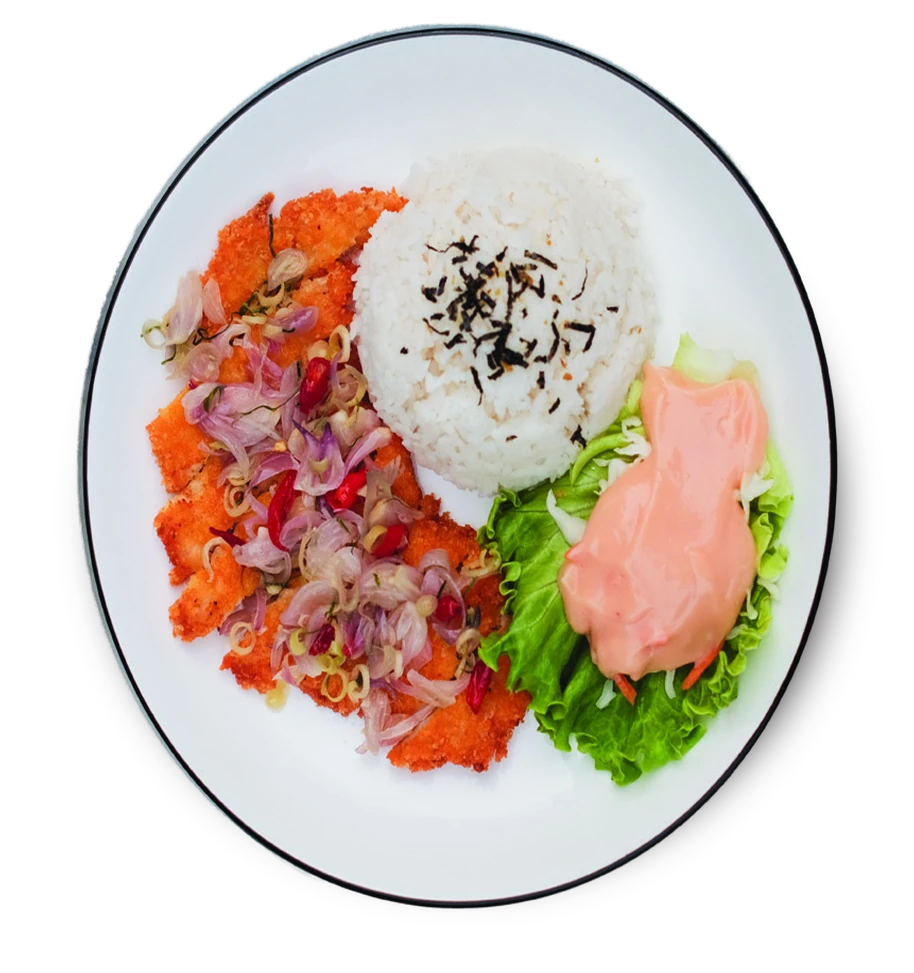
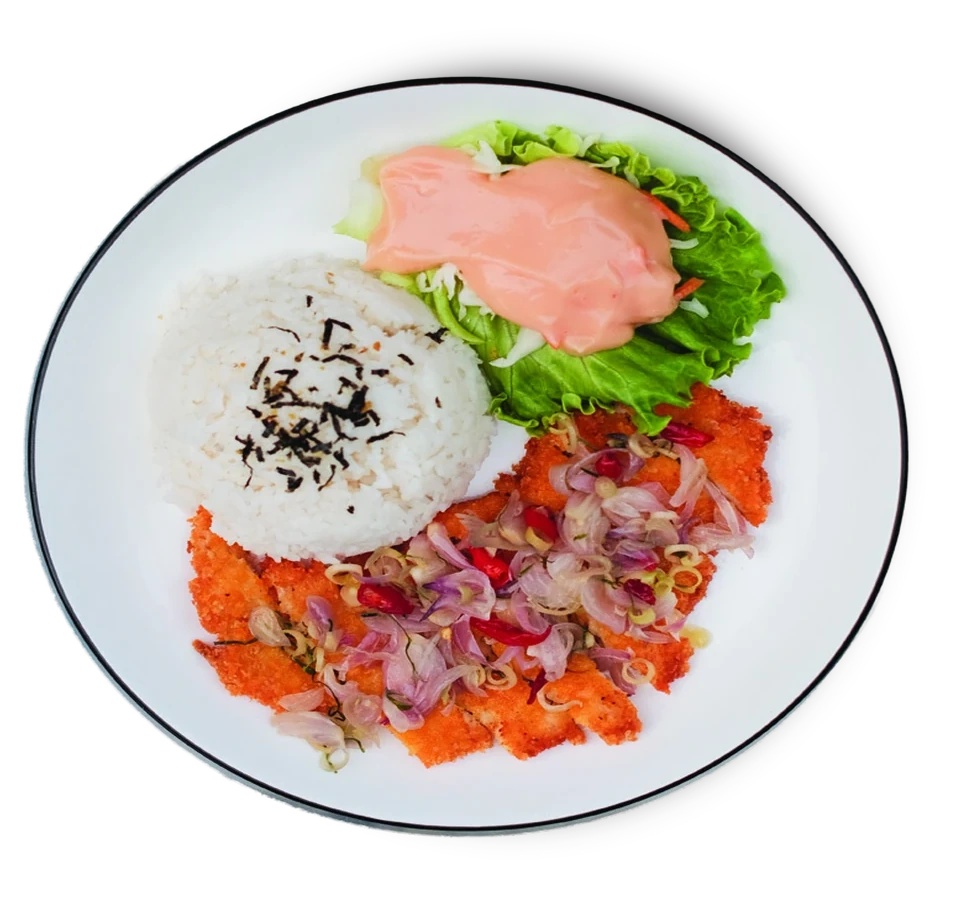
Refresh hero with menu collage, rotate katsu sambal matah, update banana palm sugar price

diff --git a/index.html b/index.html
@@ -119,13 +119,12 @@ img{max-width:100%;display:block}
   filter:blur(2px);
 }
 .hero-img{
-  position:relative;width:min(460px,100%);
-  filter:drop-shadow(0 34px 26px rgba(0,0,0,.42));
-  animation:float 7s ease-in-out infinite;
+  position:relative;width:min(500px,100%);
 }
-@keyframes float{
-  0%,100%{transform:translateY(0) rotate(-1.2deg)}
-  50%{transform:translateY(-12px) rotate(-1.2deg)}
+.hero-panel{grid-template-columns:minmax(0,1.02fr) minmax(0,.98fr)}
+.hero-img.hero-collage{width:min(580px,108%);max-width:none;filter:none}
+@media (max-width:920px){
+  .hero-img.hero-collage{width:min(520px,100%);max-width:100%}
 }
 
 /* ============ sections ============ */
@@ -342,7 +341,7 @@ html.js .section.in{opacity:1;transform:none}
         </div>
       </div>
       <div class="hero-visual">
-        <img class="hero-img" src="assets/hero-indomie.webp" alt="Indomie goreng spesial NYCA" fetchpriority="high">
+        <img class="hero-img hero-collage" src="assets/hero-menu-collage.webp" alt="Hamparan hidangan khas NYCA: ayam, bebek, ikan, katsu, nasi goreng, mie, wings, dan rice bowl" fetchpriority="high">
       </div>
     </div>
   </header>
@@ -627,7 +626,7 @@ html.js .section.in{opacity:1;transform:none}
       <article class="dish-mini"><span class="mini-ico">🌶</span><h3>Tahu Cabe Garam</h3><span class="price small">18K</span></article>
       <article class="dish-mini"><span class="mini-ico">🍠</span><h3>Singkong Goreng</h3><span class="price small">18K</span></article>
       <article class="dish-mini"><span class="mini-ico">🧅</span><h3>Bakwan</h3><span class="price small">18K</span></article>
-      <article class="dish-mini"><span class="mini-ico">🍯</span><h3>Banana Palm Sugar</h3><span class="price small">18K</span></article>
+      <article class="dish-mini"><span class="mini-ico">🍯</span><h3>Banana Palm Sugar</h3><span class="price small">20K</span></article>
       <article class="dish-mini"><span class="mini-ico">🧀</span><h3>Pisang Keju</h3><span class="price small">20K</span></article>
       <article class="dish-mini"><span class="mini-ico">🍟</span><h3>Kentang Goreng</h3><span class="price small">20K</span></article>
       <article class="dish-mini"><span class="mini-ico">🫘</span><h3>Tempe Mendoan</h3><span class="price small">20K</span></article>
